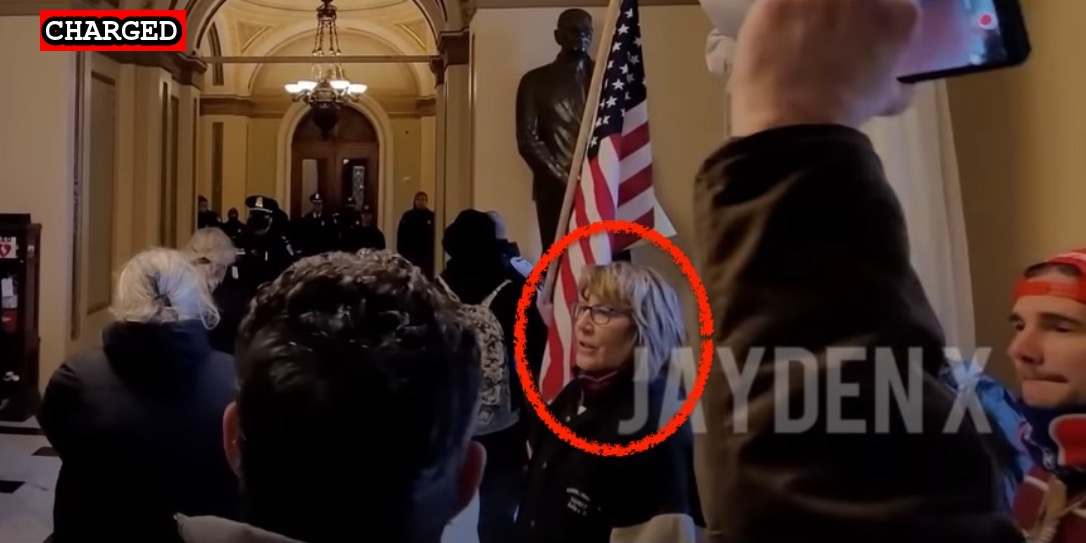
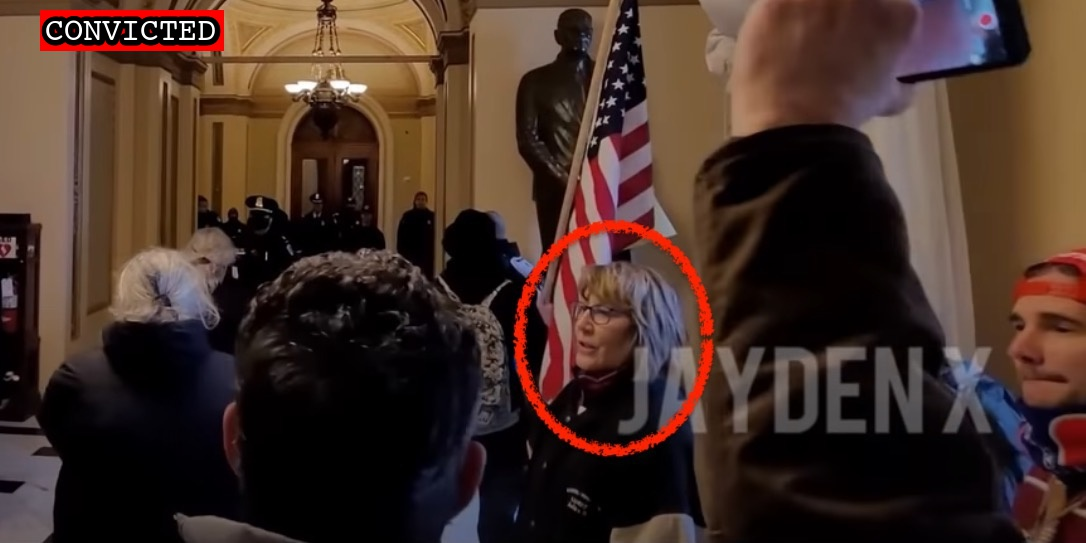
Latest import

Changed region(s): [[0.0304, 0.0, 0.2127, 0.1179]]

diff --git a/commands/suspect-import.ts b/commands/suspect-import.ts
@@ -278,6 +278,7 @@ const falsePositives = (site: string) => {
       set.add("St");
       set.add("Witcher");
       set.add("Kelly");
+      set.add("Portlock");
       set.add("Stackhouse");
       set.add("Ehrke");
       set.add("Moors");

diff --git a/docs/_suspects/leonard-ridge.md b/docs/_suspects/leonard-ridge.md
@@ -31,17 +31,16 @@ description: Click for latest case details. Suspects innocent until proven guilt
 author: seditiontrack
 layout: suspect
 published: true
-caseNumber:
+caseNumber: 1:21-cr-406
 videos:
 charges:
-  - code: 18 USC § 1752(a)(1)
-    title: Entering a restricted building or grounds
-    url: https://www.law.cornell.edu/uscode/text/18/1752
-    felony: false
+- code: 18 USC § 1752(a)(1)
+  title: Entering a restricted building or grounds
+  url: https://www.law.cornell.edu/uscode/text/18/1752
+  felony: false
 sentence:
 ---
-
 - [News Report](https://6abc.com/leonard-ridge-capitol-riot-bucks-county-pennsylvania-snapchat/10675548/)
-- [Statement of Facts](https://www.justice.gov/usao-dc/case-multi-defendant/file/1396541/download)
-- [Indictment](https://extremism.gwu.edu/sites/g/files/zaxdzs2191/f/Leonard%20Pearso%20Ridge%20IV%20Indictment.pdf)
-- [Plea Agreement](https://extremism.gwu.edu/sites/g/files/zaxdzs2191/f/Leonard%20Pearson%20Ridge%20IV%20Plea%20Agreement.pdf)
+- [Statement of Facts](https://www.justice.gov/usao-dc/case-multi-defendant/file/1459341/download)
+- [Indictment](https://www.justice.gov/usao-dc/case-multi-defendant/file/1413266/download)
+- [Plea Agreement](https://www.justice.gov/usao-dc/case-multi-defendant/file/1459336/download)

diff --git a/docs/_suspects/amy-schubert.md b/docs/_suspects/amy-schubert.md
@@ -4,15 +4,15 @@ lastName: Schubert
 hashtag: JolietPipefitter
 aka:
 residence: Illinois
-status: Charged
+status: Convicted
 date: 2021-06-24
 charged: 2021-06-24
 indicted:
-convicted:
+convicted: 2021-12-03
 sentenced:
 dismissed:
 deceased:
-plea_hearing:
+plea_hearing: 2021-12-03
 sentencing:
 age: 61
 occupation:
@@ -34,9 +34,14 @@ published: true
 caseNumber: 1:21-mj-497
 videos:
 charges:
+  - code: 18 USC § 5104(e)(2)(G)
+    title: Parading, demonstrating or picketing in a Capitol building
+    url: https://www.law.cornell.edu/uscode/text/40/5104
+    felony: false
 sentence:
 ---
 
 - [News Report](https://chicago.suntimes.com/crime/2021/7/26/22594897/crest-hill-couple-latest-illinoisans-charged-breach-u-s-capitol)
-- [Statement of Facts](https://www.justice.gov/usao-dc/case-multi-defendant/file/1417721/download)
+- [Statement of Facts](https://www.justice.gov/usao-dc/case-multi-defendant/file/1459291/download)
 - [Incriminating Evidence (Video)](https://youtu.be/PfiS8MsfSF4?t=1105)
+- [Plea Agreement](https://www.justice.gov/usao-dc/case-multi-defendant/file/1459286/download)

diff --git a/docs/_suspects/kevin-galetto.md b/docs/_suspects/kevin-galetto.md
@@ -36,8 +36,7 @@ videos:
 charges:
 sentence:
 ---
-
 - [News Report](https://www.msn.com/en-us/news/us/61-year-old-westminster-man-arrested-in-connection-with-jan-6-capitol-riots/ar-BB1fZg2s)
 - [Complaint](https://www.justice.gov/usao-dc/case-multi-defendant/file/1389316/download)
 - [Statement of Facts](https://www.justice.gov/usao-dc/case-multi-defendant/file/1389321/download)
-- [Indictment](https://extremism.gwu.edu/sites/g/files/zaxdzs2191/f/Kevin%20Galetto%20Indictment.pdf)
+- [Indictment](https://www.justice.gov/usao-dc/case-multi-defendant/file/1459351/download)

diff --git a/docs/_suspects/george-tenney.md b/docs/_suspects/george-tenney.md
@@ -36,7 +36,6 @@ videos:
 charges:
 sentence:
 ---
-
 - [News Report](https://www.postandcourier.com/news/south-carolina-men-charged-in-riot-at-u-s-capitol/article_defc5150-d907-11eb-997d-9353862128d9.html)
 - [Statement of Facts](https://www.justice.gov/usao-dc/case-multi-defendant/file/1412476/download)
-- [Indictment](https://www.justice.gov/usao-dc/press-release/file/1444216/download)
+- [Indictment](https://www.justice.gov/usao-dc/case-multi-defendant/file/1459296/download)

diff --git a/docs/_suspects/vitali-gossjankowski.md b/docs/_suspects/vitali-gossjankowski.md
@@ -41,4 +41,4 @@ sentence:
 - [Self Incrimination (VIDEO)](https://twitter.com/Cleavon_MD/status/1352302262631088128?s=20)
 - [DOJ Press Release](https://www.justice.gov/opa/page/file/1357716/download)
 - [Complaint](https://www.justice.gov/opa/page/file/1357716/download)
-- [Indictment](https://www.justice.gov/usao-dc/case-multi-defendant/file/1377681/download)
+- [Indictment](https://www.justice.gov/usao-dc/case-multi-defendant/file/1459356/download)

diff --git a/docs/_suspects/darrell-youngers.md b/docs/_suspects/darrell-youngers.md
@@ -36,7 +36,6 @@ videos:
 charges:
 sentence:
 ---
-
 - [News Report](https://abc13.com/houston-man-arrested-arrest-in-capitol-riot-darrell-youngers-january-6/10844224/)
 - [Statement of Facts](https://www.justice.gov/usao-dc/case-multi-defendant/file/1412476/download)
-- [Indictment](https://www.justice.gov/usao-dc/press-release/file/1444216/download)
+- [Indictment](https://www.justice.gov/usao-dc/case-multi-defendant/file/1459296/download)

diff --git a/docs/_suspects/joseph-fischer.md b/docs/_suspects/joseph-fischer.md
@@ -38,4 +38,4 @@ sentence:
 ---
 - [News Report](https://www.washingtonpost.com/nation/2021/02/21/officer-joseph-fischer-charged-capitol-riots/)
 - [Statement of Facts](https://www.justice.gov/usao-dc/case-multi-defendant/file/1369301/download)
-- [Indictment](https://www.justice.gov/usao-dc/case-multi-defendant/file/1378301/download)
+- [Indictment](https://www.justice.gov/usao-dc/case-multi-defendant/file/1459331/download)
